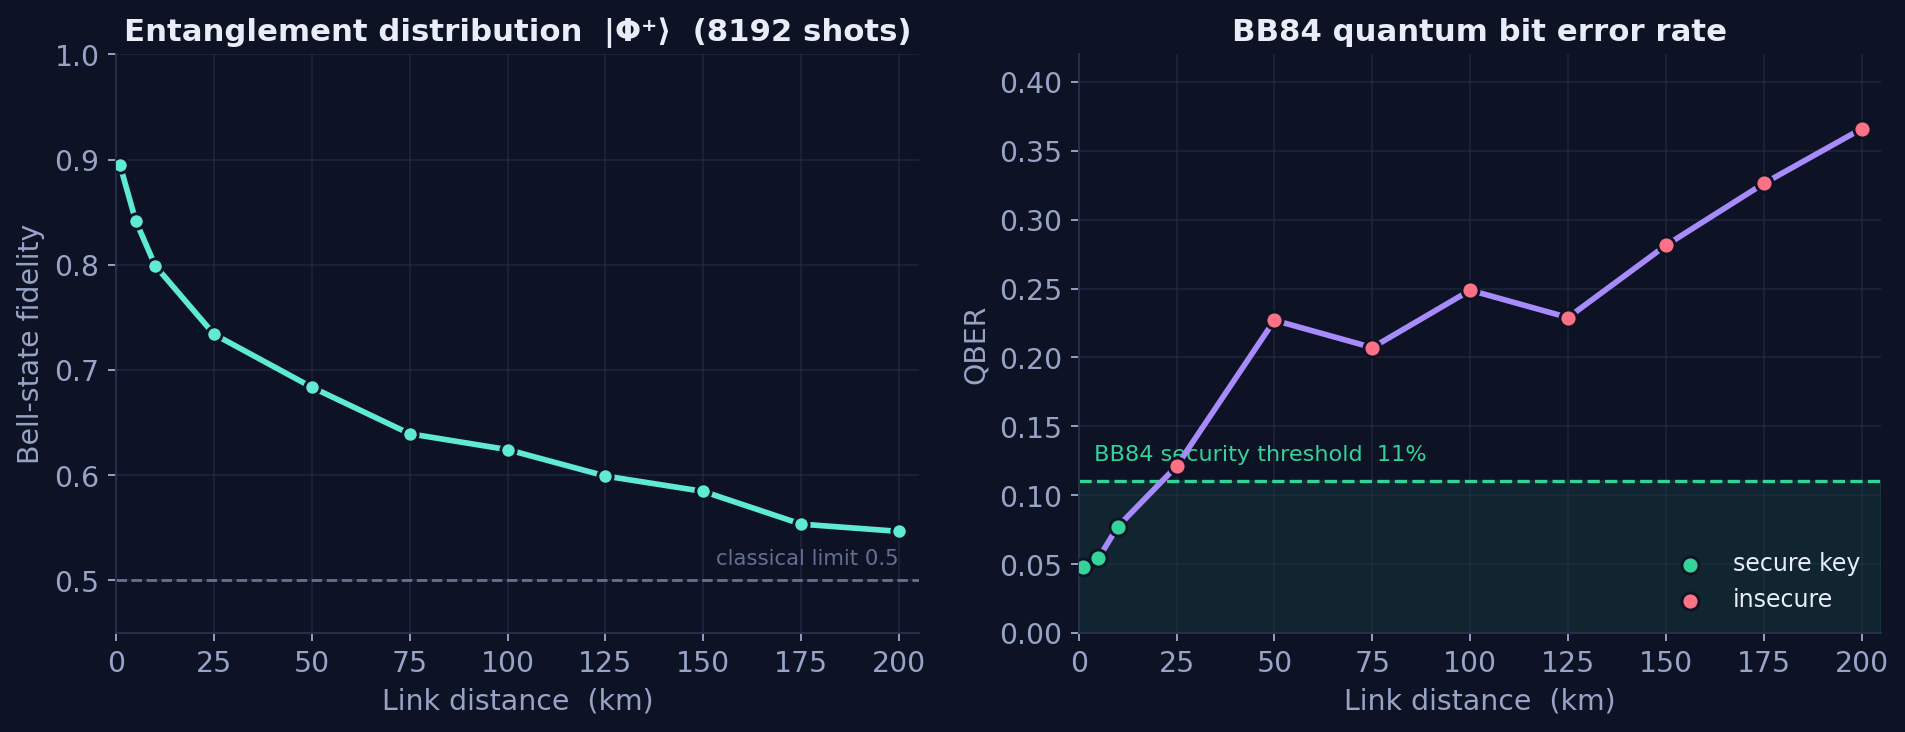
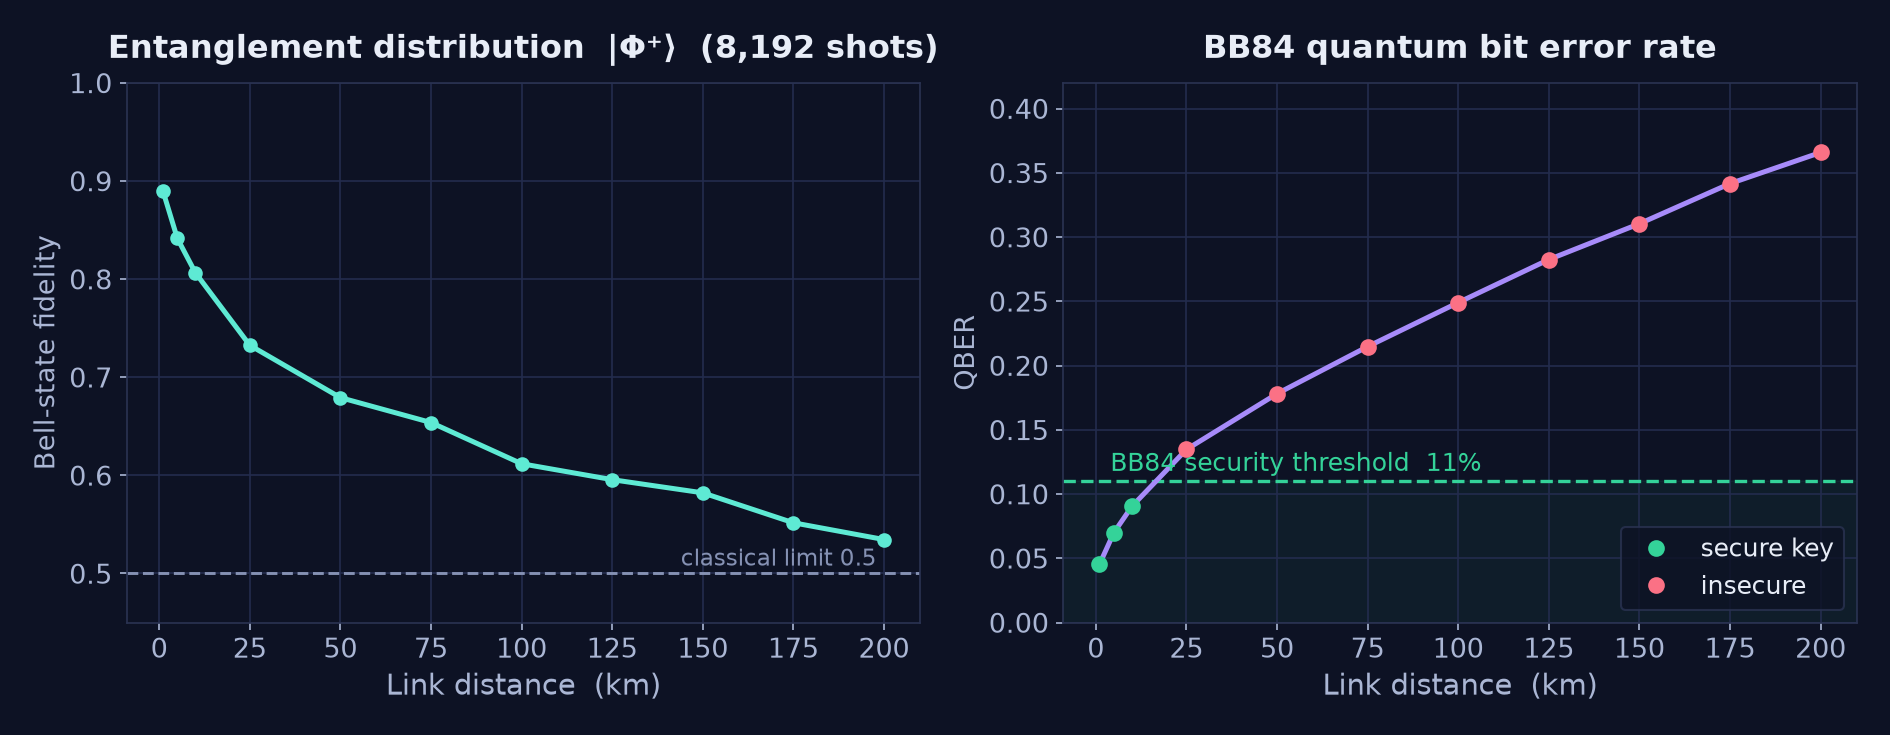
Verify result charts, regenerate QBER curve from a sound estimator, de-market copy
Verification pass on the three supporting charts:
- Channel physics: matches QuantumNetworkErrorModel exactly at 0-200 km. Kept.
- Calibration: matches the latest live snapshots in the store. Kept.
- Protocol performance: Bell fidelity reproduced within +-0.02, but the QBER
  curve could not be reproduced - the old 50-bit BB84 sample has ~+-0.1
  estimator noise and the published curve was one lucky draw. Regenerated the
  QBER from the four equally likely sifted BB84 cases at 32,768 shots each
  (the same estimator the live Visualization tab uses); it now crosses the
  11% threshold at ~17 km. Backing data + method published as
  assets/sim_fidelity_qber_data.json and linked from the caption.

Copy: drop "flagship" marketing wording; retitle the supporting-material
section to "Behind the model" under a MODEL & DATA label so "Results" refers
only to the actual experiment.

diff --git a/index.html b/index.html
@@ -682,9 +682,9 @@
       </div>
     </div>
 
-    <!-- Flagship experiment: three-mode comparison -->
-    <div class="subhead reveal"><span class="lbl">Results</span><h3>Simulation results — real hardware vs digital twin vs equations</h3><span class="ln"></span></div>
-    <p class="lead reveal" style="margin:-8px 0 26px">The flagship validation experiment (July 2026): the <b>same message, same pipeline, same 50 km link — run three times</b>, changing only where the node errors come from. Once on <b>real IBM hardware</b> (both endpoints executed on the <code>ibm_marrakesh</code> processor), once on the <b>digital twin</b>, and once on the <b>pure-equations model</b>. If the free models are good stand-ins for the real machine, all three runs should tell the same story — and they do.</p>
+    <!-- Experiment: three-mode comparison -->
+    <div class="subhead reveal"><span class="lbl">Results</span><h3>Experiment — real hardware vs digital twin vs equations</h3><span class="ln"></span></div>
+    <p class="lead reveal" style="margin:-8px 0 26px">The validation experiment (July 2026): the <b>same message, same pipeline, same 50 km link — run three times</b>, changing only where the node errors come from. Once on <b>real IBM hardware</b> (both endpoints executed on the <code>ibm_marrakesh</code> processor), once on the <b>digital twin</b>, and once on the <b>pure-equations model</b>. If the free models are good stand-ins for the real machine, all three runs should tell the same story — and they do.</p>
 
     <div class="msg-flow reveal">
       <div class="msg-card sent">
@@ -741,7 +741,8 @@
     <p class="taxo-note reveal" style="margin-bottom:46px">Full methodology, control variables, and per-stage analysis: <a href="assets/exp_report.pdf" style="color:var(--brand);font-weight:600" target="_blank" rel="noopener">download the 9-page experiment report (PDF)</a>. Raw per-shot records for all three runs are persisted in the simulator's data store.</p>
 
     <!-- Channel & calibration graphs -->
-    <div class="subhead reveal"><span class="lbl">Results</span><h3>Channel physics &amp; hardware calibration</h3><span class="ln"></span></div>
+    <div class="subhead reveal"><span class="lbl">Model &amp; data</span><h3>Behind the model — channel curves &amp; hardware calibration</h3><span class="ln"></span></div>
+    <p class="lead reveal" style="margin:-8px 0 26px">Not an experiment — the supporting material behind the simulator: the channel equations plotted against distance, a local Aer protocol sweep, and the measured calibration data that drives the digital twin.</p>
     <figure class="fig fig-wide reveal" style="margin-bottom:20px">
       <img src="assets/sim_channel.png" alt="Fiber transmission and channel error probabilities vs distance" loading="lazy" />
       <figcaption><b>Channel physics.</b> Photon transmission decays exponentially with fiber length (10% at 50 km, 1% at 100 km), while the effective amplitude-damping, polarization-drift, and phase-noise error probabilities grow and saturate with distance — exactly the closed-form equations above, plotted.</figcaption>
@@ -749,7 +750,7 @@
     <div class="fig-grid">
       <figure class="fig reveal">
         <img src="assets/sim_fidelity_qber.png" alt="Bell-state fidelity and BB84 QBER vs distance" loading="lazy" />
-        <figcaption><b>Protocol performance (real Aer runs).</b> Bell-state fidelity for entanglement distribution (8,192 shots) and BB84 QBER across an 11-point distance sweep. A secure key is only obtained while QBER stays below the 11% threshold — crossed between ≈15–20 km under the default noise budget.</figcaption>
+        <figcaption><b>Protocol performance (local Aer runs, July 2026).</b> Bell-state fidelity for entanglement distribution (8,192 shots per point) and BB84 QBER estimated from the four equally likely sifted cases (32,768 shots each) across an 11-point distance sweep. A secure key is only obtained while QBER stays below the 11% threshold — crossed at ≈17 km under the default noise budget. <a href="assets/sim_fidelity_qber_data.json" style="color:var(--brand)" target="_blank" rel="noopener">Raw data + method</a>.</figcaption>
       </figure>
       <figure class="fig reveal">
         <img src="assets/sim_calibration.png" alt="IBM hardware calibration: coherence and error rates" loading="lazy" />